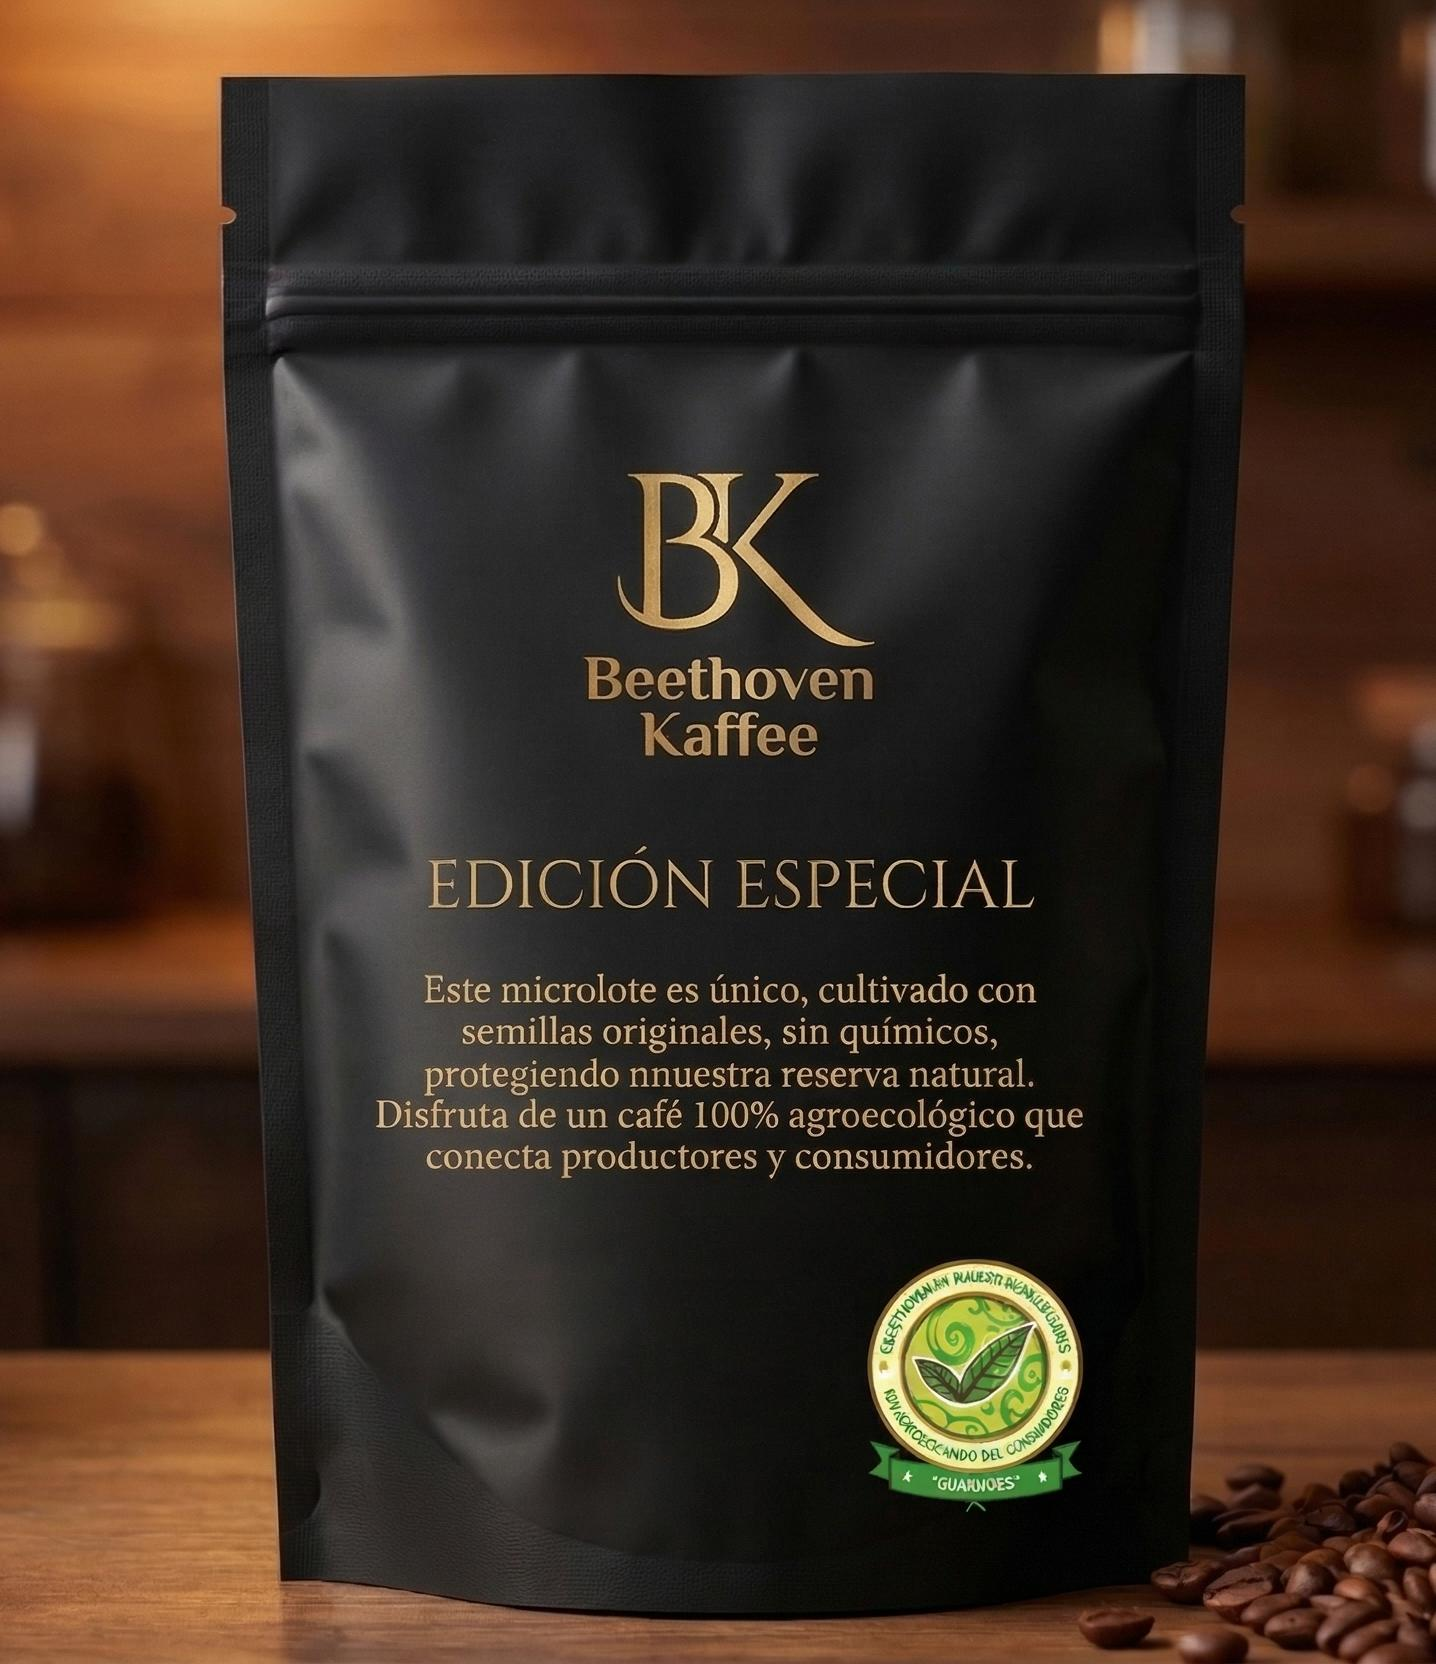
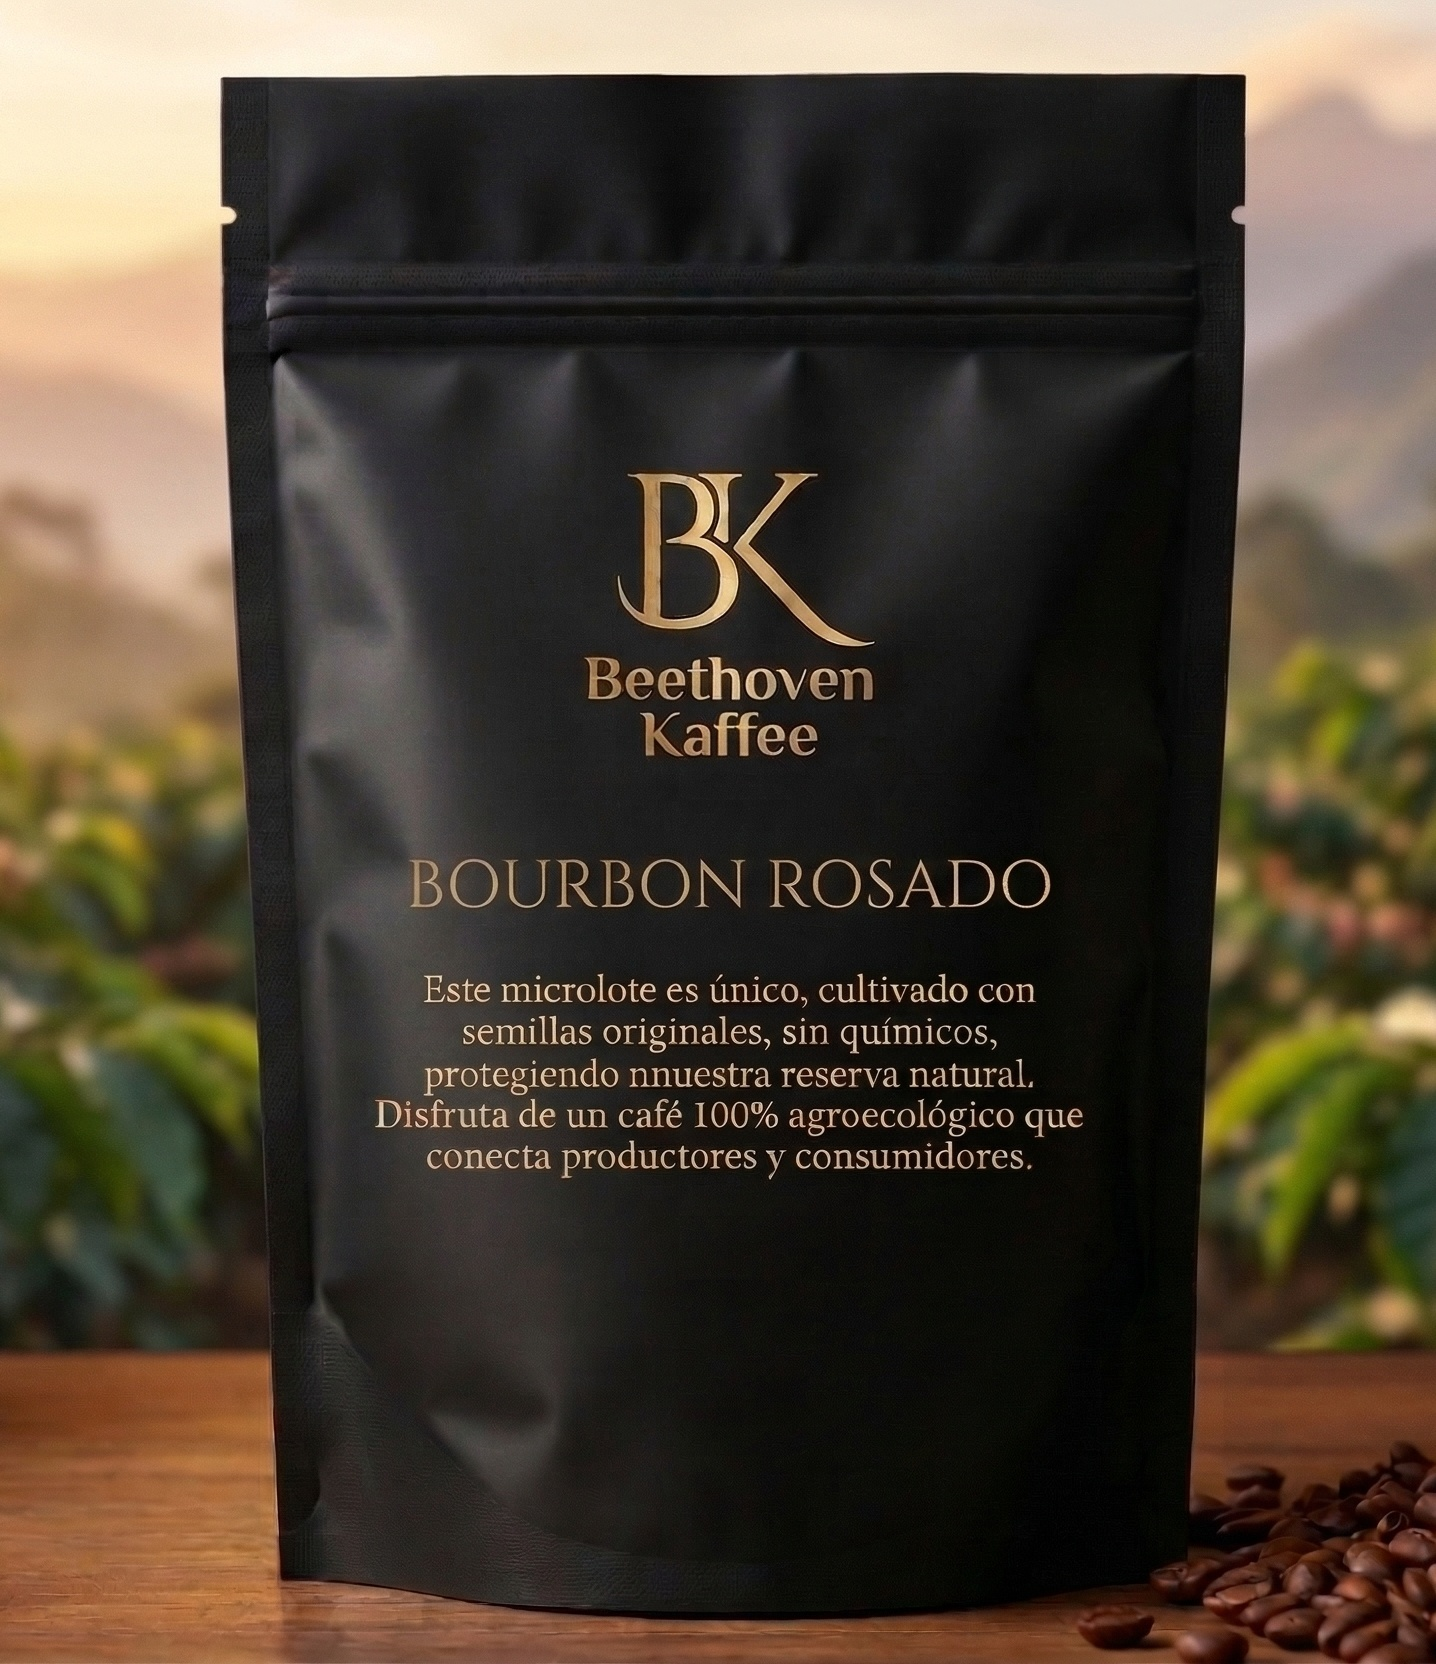
Update special edition product image and enhance crop script
Replace BK-Coffee-Bag-Edicion-Especial with new Bourbon Rosado image cropped to match product aspect ratio. Update crop script to always export as JPG with usage instructions.

diff --git a/scripts/crop_to_match.py b/scripts/crop_to_match.py
@@ -1,8 +1,17 @@
 """
 Recorta una imagen a las mismas proporciones de una imagen de referencia, centrada.
+Siempre exporta en JPG (quality 95).
+
+Requiere: pip install Pillow
 
 Uso:
-    python crop_to_match.py <imagen_referencia> <imagen_a_recortar> [-o salida.png]
+    python3 scripts/crop_to_match.py <imagen_referencia> <imagen_a_recortar> [-o salida.jpg]
+
+Ejemplo para procesar una imagen de producto:
+    python3 scripts/crop_to_match.py \\
+        public/images/Products/BK-Coffee-Bags-Product.jpg \\
+        "/ruta/a/mi-imagen.png" \\
+        -o public/images/Products/nombre-final.jpg
 """
 
 import argparse
@@ -43,12 +52,15 @@ def main():
     fw, fh = result.size
 
     if args.output:
-        out_path = args.output
+        out_path = Path(args.output).with_suffix(".jpg")
     else:
         p = Path(args.imagen)
-        out_path = str(p.with_stem(p.stem + "_cropped"))
+        out_path = p.with_stem(p.stem + "_cropped").with_suffix(".jpg")
 
-    result.save(out_path)
+    if result.mode in ("RGBA", "P", "LA"):
+        result = result.convert("RGB")
+
+    result.save(str(out_path), "JPEG", quality=95)
     print(f"Ratio referencia: {rw}:{rh} ({rw/rh:.3f})")
     print(f"Guardado: {out_path} ({fw}x{fh})")
 
